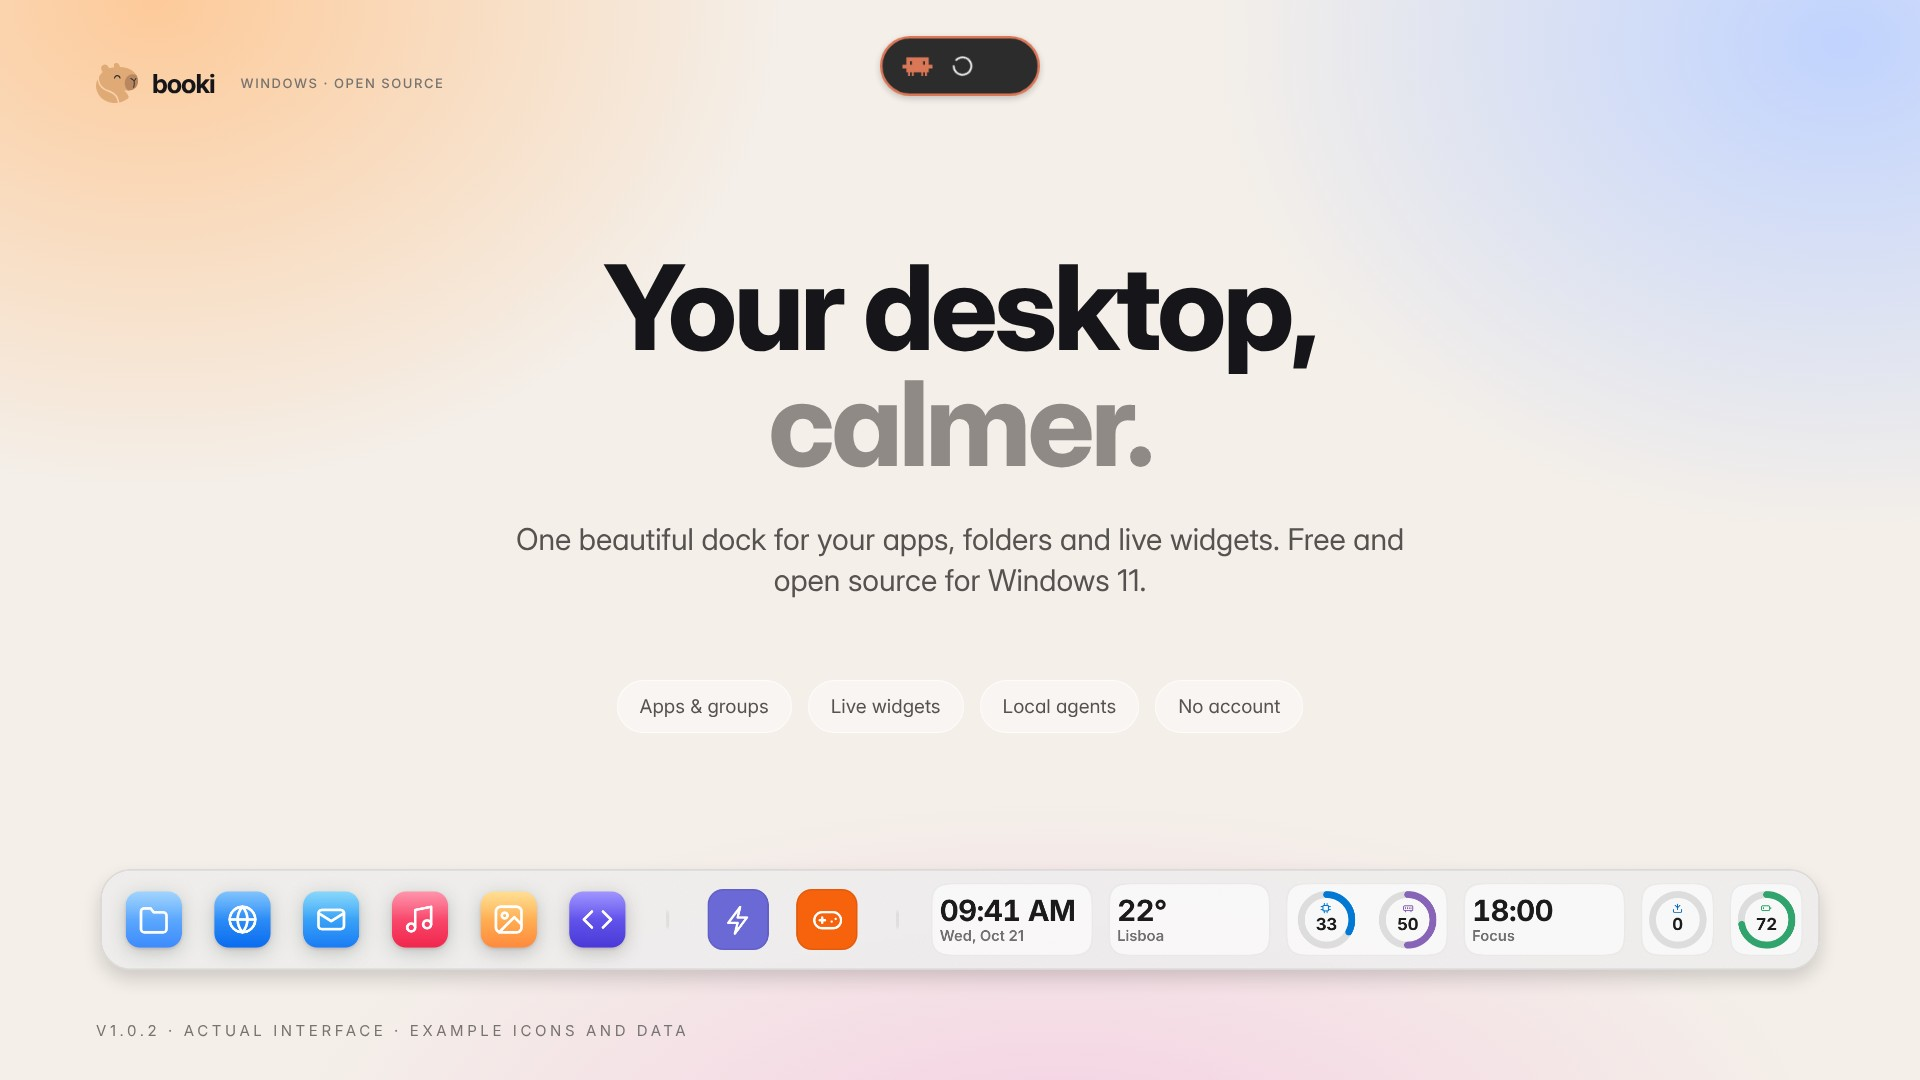
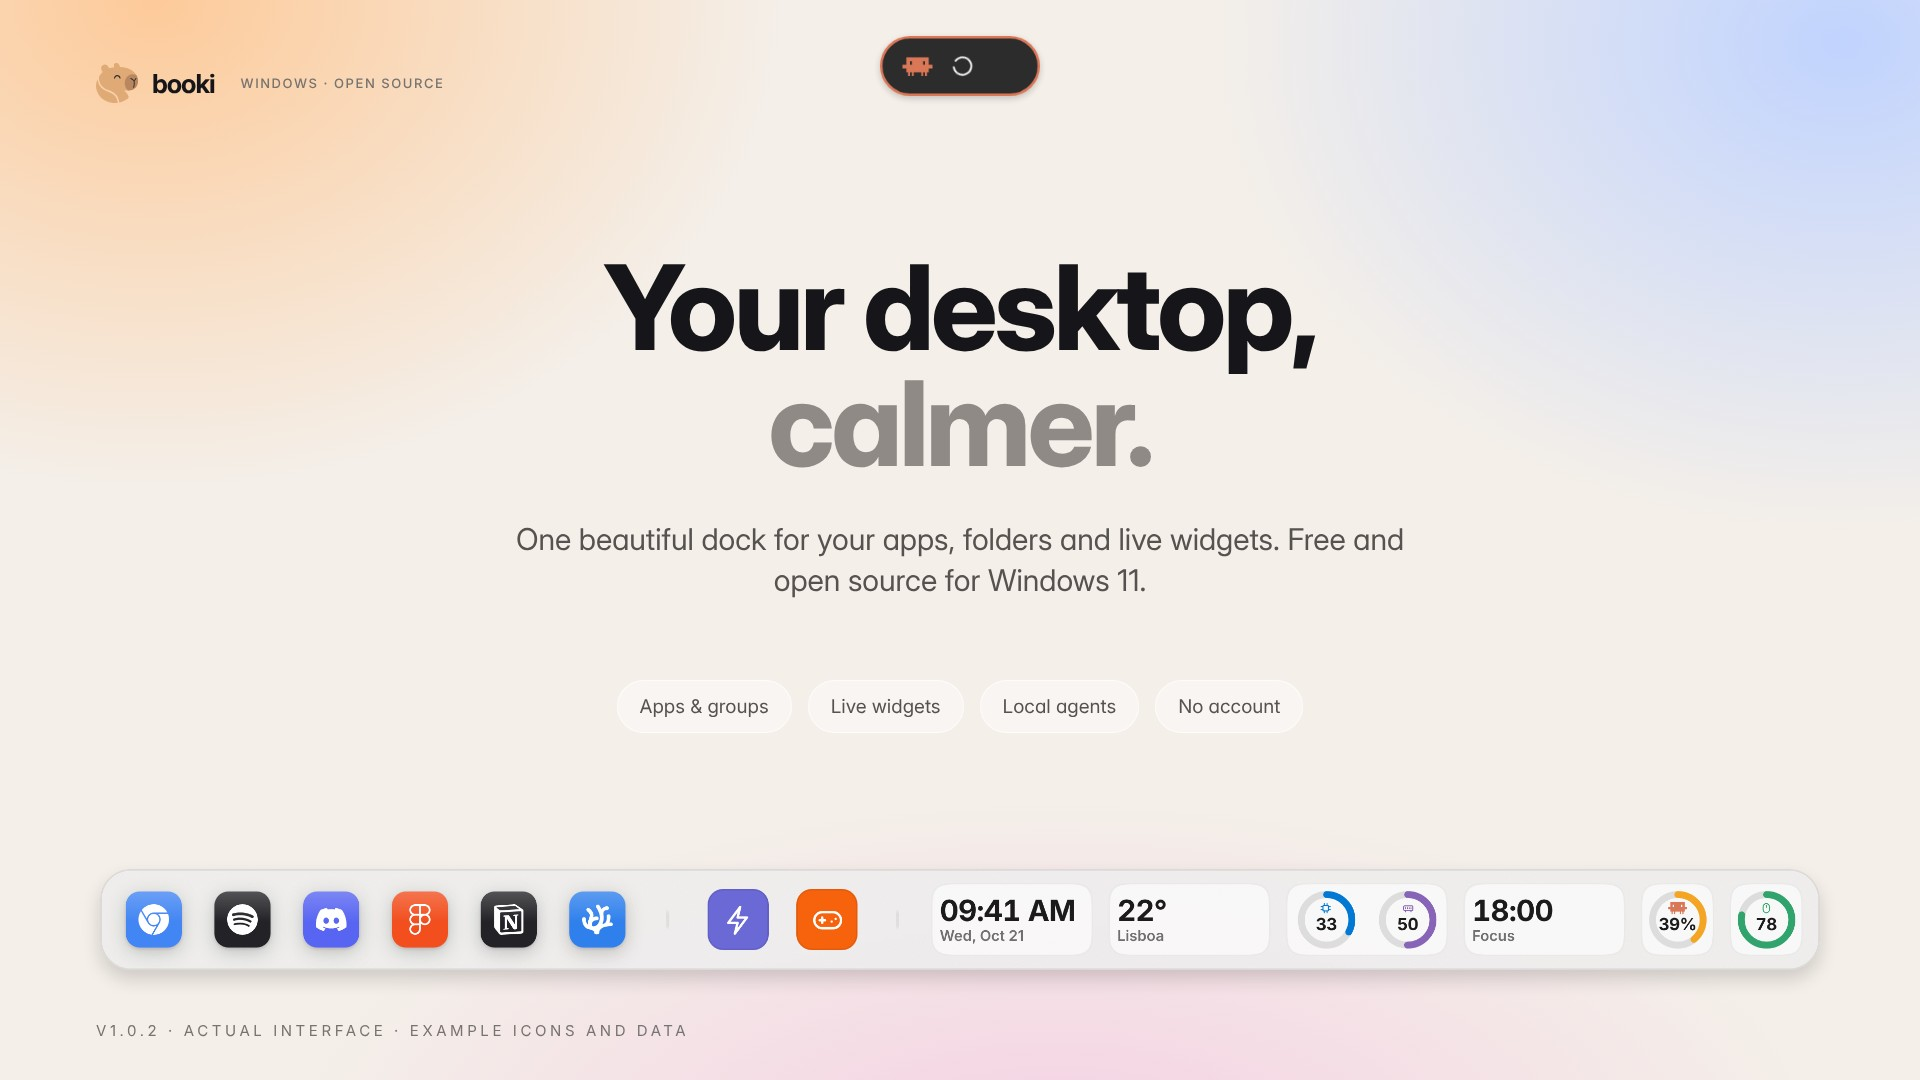
README images: only the real interface, labelled clearly (#143)
* Hover actions never cover text

Clipboard actions sit on the card's date line instead of over the copied
text; flyout file actions are opaque; the position picker's labels step
aside while a top spot is previewed.

Claude-Session: https://claude.ai/code/session_01S5MCw9nrB2b1MMCMuDgKBJ

* Notch: a video or game on another monitor no longer silences it

foreground_place now asks about the calling window's monitor. A YouTube
window on a second screen made the primary notch step aside and drop the
music and agent states.

Claude-Session: https://claude.ai/code/session_01S5MCw9nrB2b1MMCMuDgKBJ

* Notch and exception settings survive a restart; music can stay in the notch

The backend only keeps fields it knows, so 'What the notch shows', the
notch reveal delay and the apps the dock steps aside for were dropped on
every save. They are now config fields, with a round-trip test.

New: Music in the notch, Brief (as before) or While playing.

Claude-Session: https://claude.ai/code/session_01S5MCw9nrB2b1MMCMuDgKBJ

* Settings: the notch gets its own section

Shape, how it opens, what it shows and music duration in one place
instead of inside Behaviour; the AI widget no longer repeats the agents
switch. Shorter, plainer explanations.

Claude-Session: https://claude.ai/code/session_01S5MCw9nrB2b1MMCMuDgKBJ

* Dock settings: fewer, clearer options

Glass opacity sits under the style it tunes and presets became one-click
[…]

Changed region(s): [[0.0625, 0.825, 0.3438, 0.8861], [0.8438, 0.825, 0.9062, 0.8861]]

diff --git a/README.md b/README.md
@@ -24,7 +24,7 @@
   <a href="LICENSE"><img src="https://img.shields.io/badge/license-MIT-lightgrey?style=flat-square" alt="MIT license" /></a>
 </p>
 
-<p align="center"><img src="docs/presentation/hero-real-en.jpg" width="1000" alt="Booki on a Windows desktop: the dock with a browser and music player shown as live cards and an open group with clock, battery, focus and system widgets" /></p>
+<p align="center"><img src="docs/presentation/hero-real-en.jpg" width="1000" alt="Booki on a Windows desktop: the dock with a browser and music player shown as live cards and an open group with clock, battery, devices, system, focus and weather widgets" /></p>
 
 <table align="center">
 <tr>
@@ -35,7 +35,7 @@
 </tr>
 </table>
 
-<p align="center"><img src="docs/presentation/diagram-anatomy.svg" width="960" alt="The parts of Booki: the notch at the top, a widget panel, and the dock with apps, groups and live widgets" /></p>
+<p align="center"><img src="docs/presentation/anatomy-en.jpg" width="1000" alt="The parts of Booki, labelled on the actual interface: the notch showing Claude working, the Devices widget panel, and the dock with apps, groups and live widgets" /></p>
 
 ---
 
@@ -43,13 +43,13 @@
 
 <p align="center">Put widgets and apps in the same group and it opens like the Windows Widgets board:<br/>live cards in three sizes, apps beside them, in whatever order you drag them.</p>
 
-<p align="center"><img src="docs/presentation/desk-hub.jpg" width="1000" alt="An open Booki group over a browser window: clock, battery, focus timer and system cards next to Notion, Obsidian and GitHub Desktop" /></p>
+<p align="center"><img src="docs/presentation/desk-hub.jpg" width="1000" alt="An open Booki group on a photo desktop: clock, battery, devices, system, focus and weather cards" /></p>
 
 <h2 align="center">Apps that show what they're doing.</h2>
 
 <p align="center">Turn a pinned app into a live card: your music player shows the song and its controls,<br/>your browser how many windows are open with a button for a new or private one.</p>
 
-<p align="center"><img src="docs/presentation/desk-dark.jpg" width="1000" alt="A dark Booki dock over a code editor: browser card with two windows, music card playing, clock, system and focus widgets" /></p>
+<p align="center"><img src="docs/presentation/desk-dark.jpg" width="1000" alt="A dark Booki dock on a mountain wallpaper with the notch showing Claude working: browser card with two windows, music card playing, clock, system and focus widgets" /></p>
 
 <h2 align="center">Smooth at any refresh rate.</h2>
 
@@ -69,9 +69,9 @@
 
 <h2 align="center">A gallery to make them yours.</h2>
 
-<p align="center">The widgets on your dock sit at the top. Below, explore by category and add one in a click.<br/>Its settings open beside the gallery with a live preview: content, look and colour.</p>
+<p align="center">Your widgets sit on top as compact cards. <b>Add widget</b> opens the gallery: search, browse by category, add one in a click.<br/>Then tune it with a live preview: content, look and colour.</p>
 
-<p align="center"><img src="docs/presentation/clip-gallery.webp" width="900" alt="In Booki's Widgets settings, Weather is added from the gallery and its colour is changed in the side sheet" /></p>
+<p align="center"><img src="docs/presentation/clip-gallery.webp" width="900" alt="In Booki's Widgets settings, Add widget opens the gallery, Weather is added and its colour is changed with a live preview" /></p>
 
 <p align="center"><img src="docs/presentation/settings-en.jpg" width="1000" alt="Current Booki Settings home with example dock" /></p>
 
@@ -101,7 +101,7 @@
 
 <p align="center">No accounts. No telemetry. No cloud sync. Your tasks, notes and usage stay on your PC.<br/>Weather asks only for the city you choose — never your location.</p>
 
-<p align="center"><img src="docs/presentation/diagram-ai-privacy.svg" width="960" alt="AI usage stays on your PC: Booki reads only local session logs and, if you opt in, Claude Code's status line and agent hook events; never sign-ins, tokens, credential files or the network" /></p>
+<p align="center"><img src="docs/presentation/privacy-en.jpg" width="1000" alt="AI usage stays on your PC: Booki reads only local session logs, Claude Code's status line if you opt in, agent event kinds and file sizes; never sign-ins, tokens, credential files, the network or made-up quotas. The actual AI usage panel sits in the middle." /></p>
 
 <!-- booki:media:start -->
 <p align="center"><sub>Source frontend captures for v1.0.2, with example data. Native Windows blur requires an in-app check.</sub></p>
